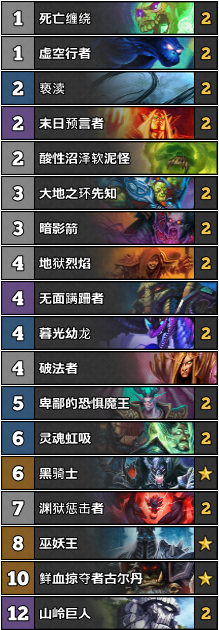
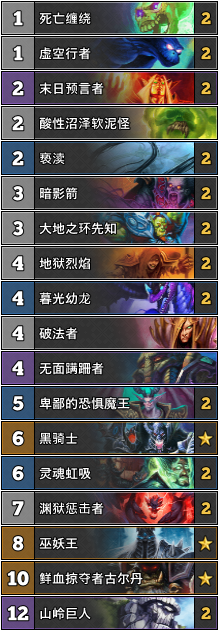
update data

diff --git a/hearth/get_deck.py b/hearth/get_deck.py
@@ -12,7 +12,7 @@ def d_format(word):
         a = word.index('[')
         b = word.index(']')
         word = word[:a] + word[b + 1:]
-    return word
+    return word.strip('=')
 
 
 def get_class(word):
@@ -41,13 +41,13 @@ def update_deck(decks, info):
 
 
 if __name__ == '__main__':
-    exceptions_list = {'防战': '恩佐斯防战'}
+    exceptions_list = {'中速骑': '鱼人骑'}
     pinyin = xpinyin.Pinyin()
     deck_info = {'intro': '', 'TS': {'Tintro': '', 'deck': []}, 'T1': {'Tintro': '', 'deck': []},
                  'T2': {'Tintro': '', 'deck': []}, 'T3': {'Tintro': '', 'deck': []}, 'T4': {'Tintro': '', 'deck': []},
                  'T5': {'Tintro': '', 'deck': []}}
-    tid = 12279438
-    ts_url = 'http://bbs.ngacn.cc/read.php?tid=' + unicode(12279438)
+    tid = 12333490
+    ts_url = 'http://bbs.ngacn.cc/read.php?tid=' + unicode(tid)
     web = requests.session()
     web.trust_env = False
     data = web.get(ts_url)
@@ -73,12 +73,12 @@ if __name__ == '__main__':
                 mark = 2
             if mark == 1:
                 deck_info['intro'] += string
-            elif mark == 2:
+            elif mark == 2 and string != '本期TS周报分级和走势为：':
                 temp = string.split('：')
                 for item in temp[1].split('、'):
                     for k, v in exceptions_list.items():
                         if item.startswith(k):
-                            item = v + item[2:]
+                            item = v + '(' + item.split('(')[1]
                     rank += 1
                     try:
                         deck = {'name': item.split('(')[0], 'weekRating': unicode(rank) + '(' + item.split('(')[1],
@@ -123,6 +123,7 @@ if __name__ == '__main__':
                     deck['cons'] = string.split('：')[1].split('、')
                 if rank == 1 and not string.endswith('.png'):
                     deck['cardIntro'] = deck.get('cardIntro', '') + string
+
             if '—近期变化—' in string:
                 mark = 1
     print json.dumps(deck_info, ensure_ascii=False)
